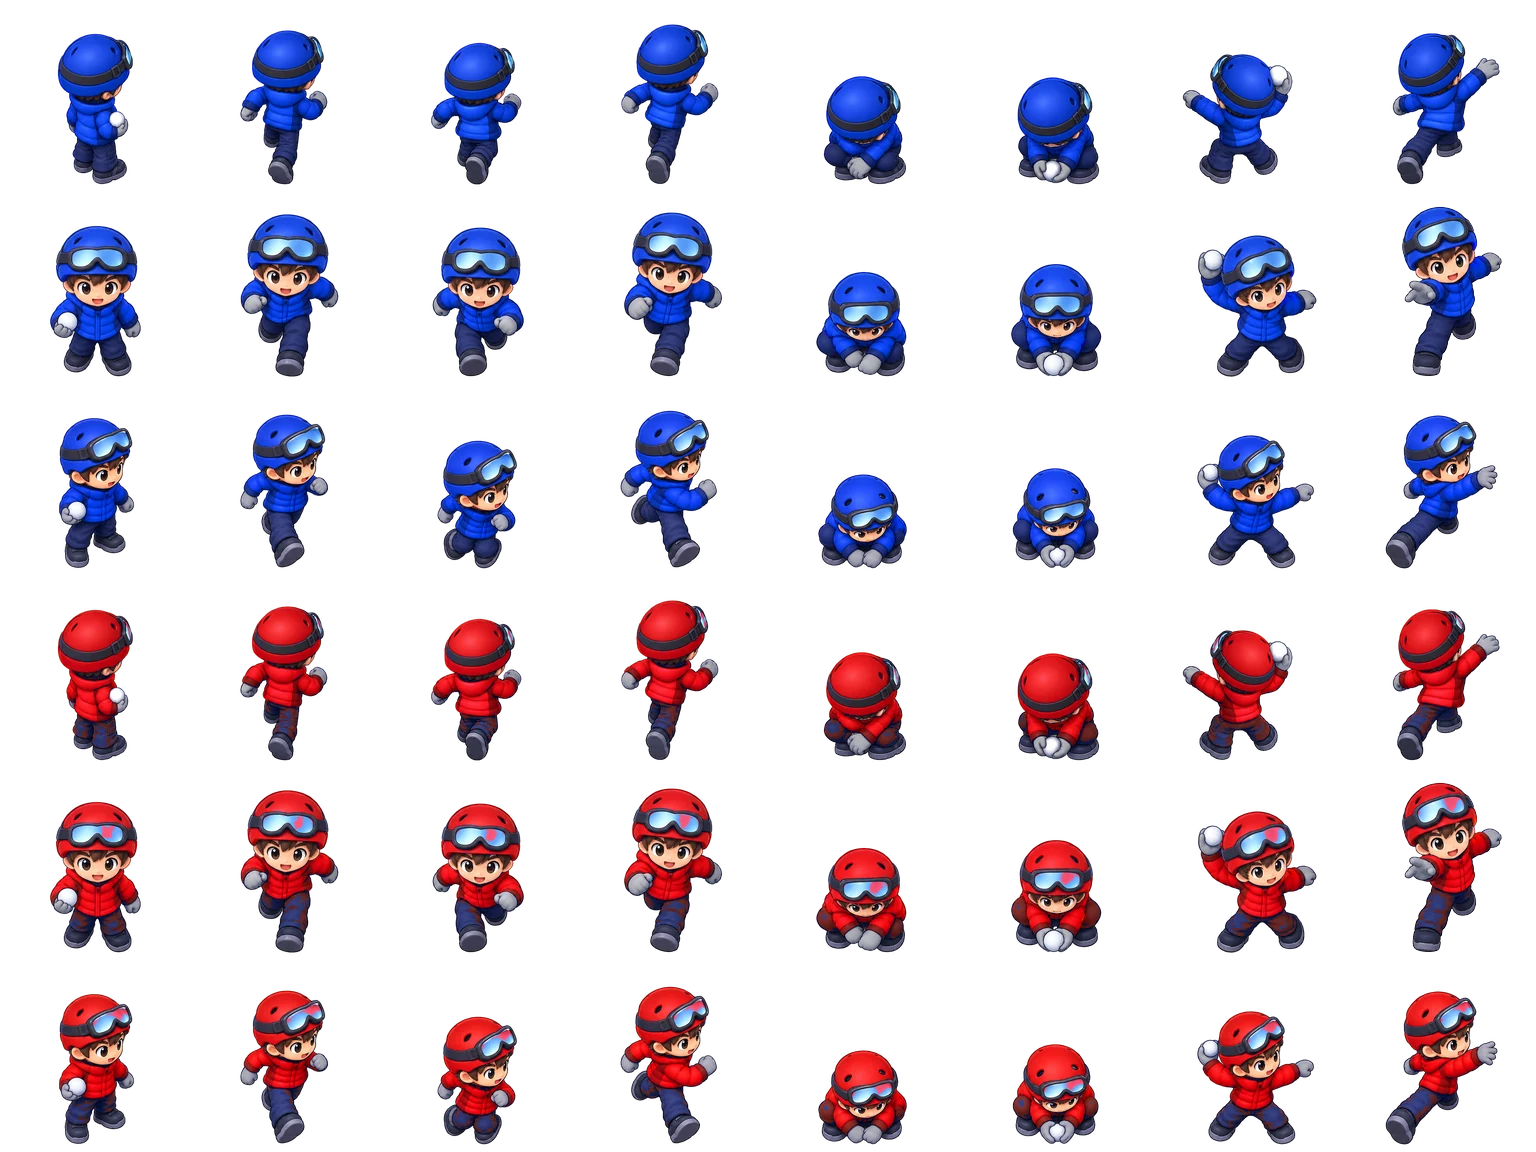
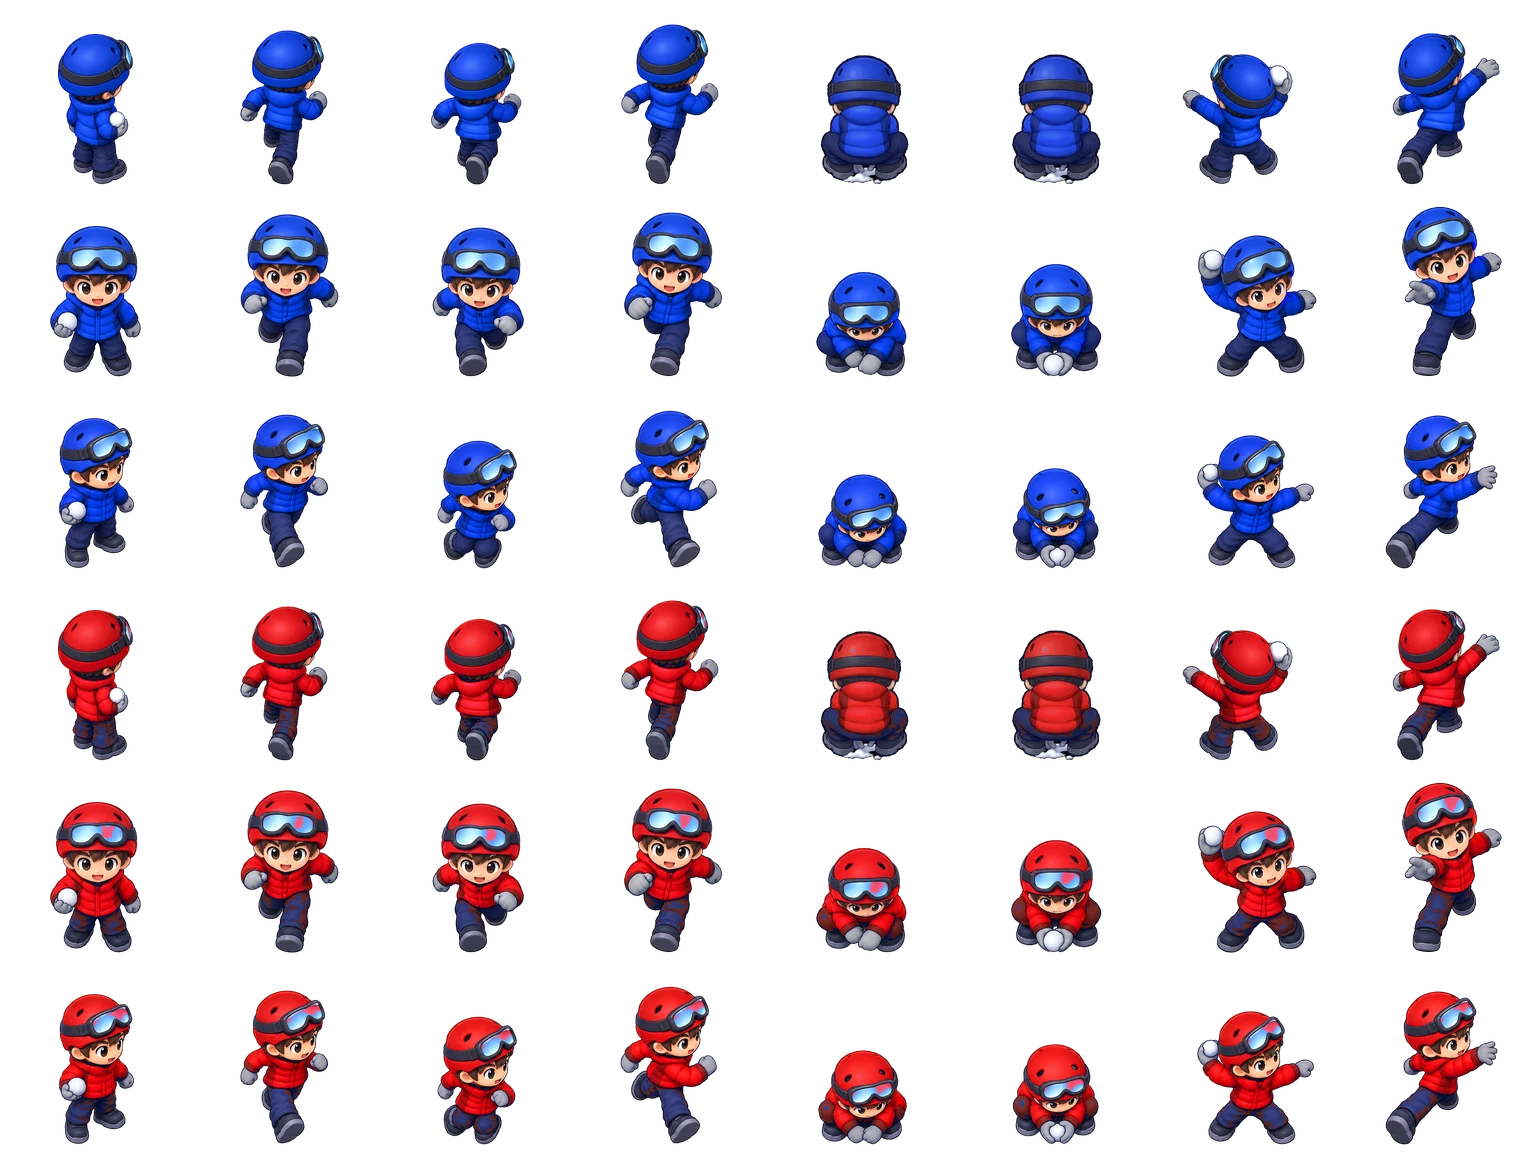
背中側のしゃがむ・丸めるを、届いた 1 枚絵に差し替える
art/player_back_crouch.jpg (背景が黒の JPEG) を、ふちからつながる黒だけ抜いて透明にした
(体の黒い輪郭は青みがあるので残る)。もとのコマとヘルメットの幅・足もと・頭の真ん中をそろえて置く。
あかの背中側も、塗り替えで同じ絵になる。

Claude-Session: https://claude.ai/code/session_018ByozsosrypvgDuSRkW5f8

diff --git a/art/make_sprites.py b/art/make_sprites.py
@@ -12,6 +12,7 @@
   5. あおの青い所を赤に塗り替えて、あかの 3 行を作る
   6. 8 列 x 6 行 (あお 背中・正面・横 / あか 背中・正面・横) に並べて WebP で書き出す
   7. 暗い地と明るい地に並べた見本 (art/check_sprites.png) も書き出す (目で見る用)
+  あとから届いた 1 枚絵 (OVERRIDE) は、もとのコマとヘルメットの幅・足もと・頭の真ん中をそろえて差し替える
 """
 import json
 import os
@@ -28,6 +29,11 @@ BASE = CELL - 8      # 足もとの線 (上から)
 IDLE_H = 150         # 立ちの高さ (px)。走る絵は立ちより 1 割ほど高いので、上に余白を残す
 SHEETS = ['player_back.png', 'player_front.png', 'player_side.png']
 MIRROR = {('player_back.png', 6)}   # 左手で投げていたコマ (0 から数える)
+# あとから届いた 1 枚絵で差し替えるコマ: (絵, コマ) -> ファイル。背景が黒の JPEG でもよい
+OVERRIDE = {
+    ('player_back.png', 4): 'player_back_crouch.jpg',   # 背中側のしゃがむ
+    ('player_back.png', 5): 'player_back_crouch.jpg',   # 背中側の丸める (同じ絵。手もとに雪がある)
+}
 
 
 def clean_alpha(rgba):
@@ -65,6 +71,63 @@ def components(mask):
     return label, out
 
 
+def load_black_bg(path):
+    """背景が黒 (0〜2) の JPEG を透明にする。ふちからつながる黒だけを抜く (体の中の黒い輪郭は残す)"""
+    rgb = np.array(Image.open(os.path.join(HERE, path)).convert('RGB')).astype(np.int32)
+    h, w = rgb.shape[:2]
+    mx = rgb.max(axis=2)
+    bg = np.zeros((h, w), bool)
+    q = deque()
+    for y in range(h):
+        for x in (0, w - 1):
+            if mx[y, x] <= 6 and not bg[y, x]:
+                bg[y, x] = True; q.append((y, x))
+    for x in range(w):
+        for y in (0, h - 1):
+            if mx[y, x] <= 6 and not bg[y, x]:
+                bg[y, x] = True; q.append((y, x))
+    while q:
+        y, x = q.popleft()
+        for dy, dx in ((1, 0), (-1, 0), (0, 1), (0, -1)):
+            yy, xx = y + dy, x + dx
+            if 0 <= yy < h and 0 <= xx < w and not bg[yy, xx] and mx[yy, xx] <= 6:
+                bg[yy, xx] = True; q.append((yy, xx))
+    alpha = np.where(bg, 0, 255).astype(np.int32)
+    # ふち: 背景に接している暗い画素は、明るさに応じて半透明にする (JPEG のにじみ)
+    near = np.zeros_like(bg)
+    near[1:] |= bg[:-1]; near[:-1] |= bg[1:]; near[:, 1:] |= bg[:, :-1]; near[:, :-1] |= bg[:, 1:]
+    edge = near & ~bg & (mx <= 24)
+    alpha[edge] = np.clip((mx[edge] - 6) * 255 // 18, 0, 255)
+    out = np.zeros((h, w, 4), np.uint8)
+    out[..., :3] = rgb
+    out[..., 3] = alpha
+    out[alpha == 0, :3] = 0
+    return out
+
+
+def helmet_width(cell):
+    """頭のあたり (上から 30%) で、不透明な画素がいちばん横に広い行の幅 (= ヘルメットの幅)"""
+    x0, y0, x1, y1 = bbox(cell[..., 3])
+    top = cell[y0:y0 + int((y1 - y0) * 0.3), :, 3] > 128
+    widths = [int(np.ptp(np.nonzero(r)[0])) + 1 for r in top if r.any()]
+    return max(widths)
+
+
+def fit_override(orig, path):
+    """差し替えの絵を、もとのコマと同じ大きさ・同じ位置に合わせる (ヘルメットの幅・足もと・頭の真ん中)"""
+    src = load_black_bg(path)
+    k = helmet_width(orig) / helmet_width(src)
+    img = Image.fromarray(src).resize((round(src.shape[1] * k), round(src.shape[0] * k)), Image.LANCZOS)
+    small = np.array(img)
+    ox0, oy0, ox1, oy1 = bbox(orig[..., 3])
+    sx0, sy0, sx1, sy1 = bbox(small[..., 3])
+    dx = round(head_center_x(orig) - head_center_x(small))
+    dy = oy1 - sy1
+    out = Image.new('RGBA', (orig.shape[1], orig.shape[0]), (0, 0, 0, 0))
+    out.paste(img, (dx, dy), img)
+    return np.array(out)
+
+
 def cut_cells(path):
     im = np.array(Image.open(os.path.join(HERE, path)).convert('RGBA'))
     im = clean_alpha(im)
@@ -83,6 +146,8 @@ def cut_cells(path):
             cell[np.isin(label, drop)] = 0
         if (path, i) in MIRROR:
             cell = cell[:, ::-1].copy()
+        if (path, i) in OVERRIDE:
+            cell = fit_override(cell, OVERRIDE[(path, i)])
         cells.append(cell)
     return cells
 
